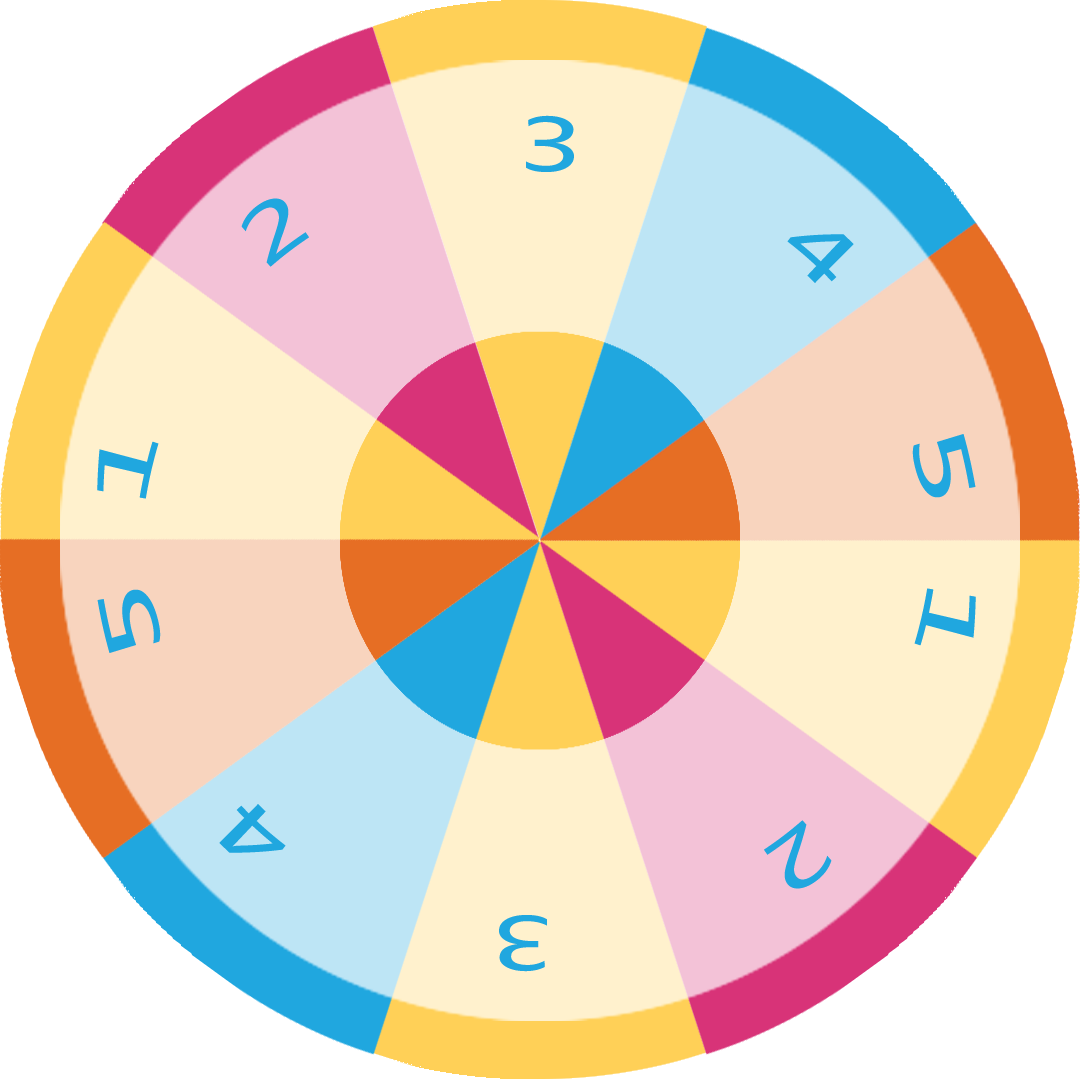
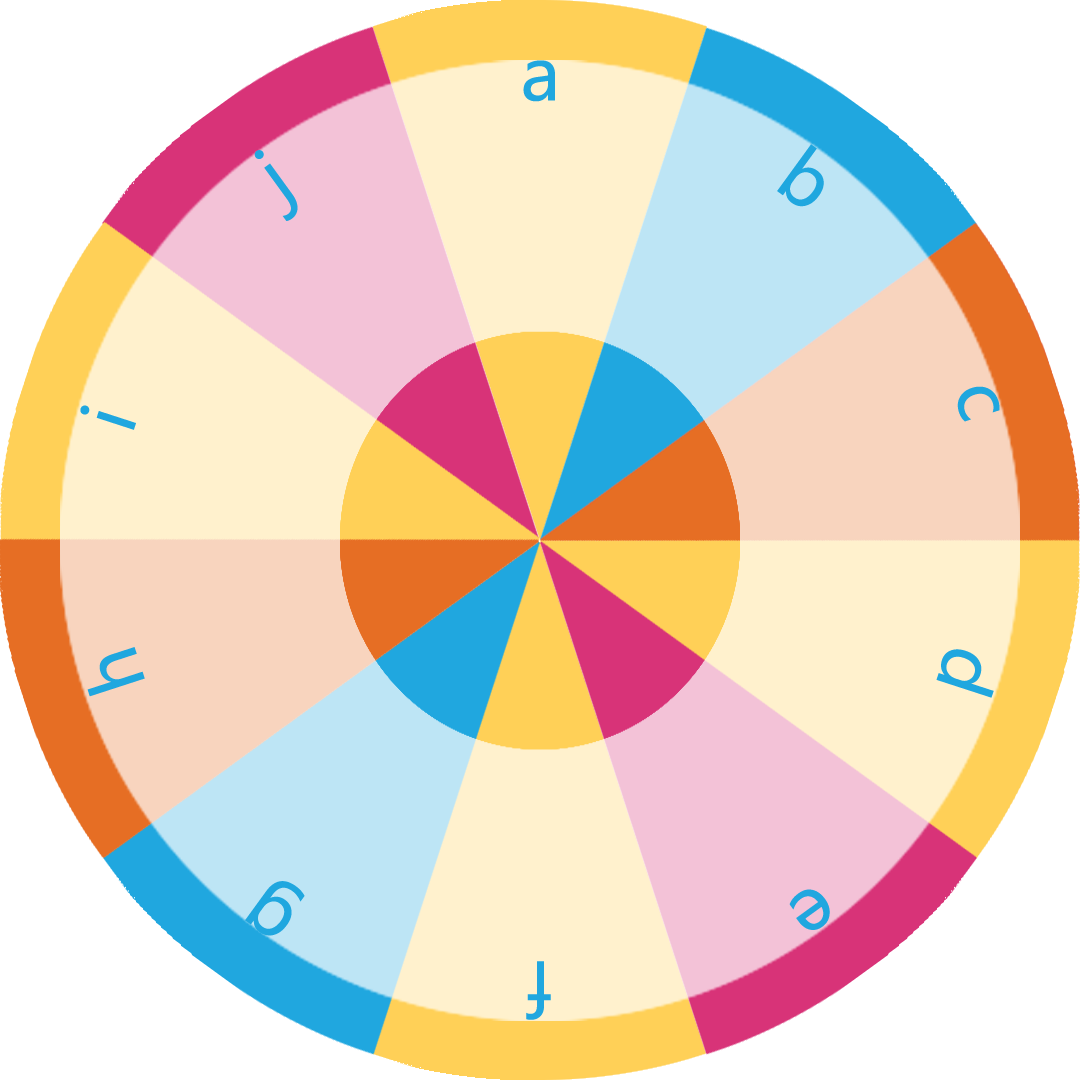
c1-006: 简化了转盘的旋转代码，旋转完毕后能够响应当前的sort， 修改了产品详情对话框模式

diff --git a/docs/Product.html b/docs/Product.html
@@ -19,22 +19,42 @@
 					<a href="#">
 						<img src="../Frontend/img/pro-demo.png">
 						<i class="pro-desc"></i>
+						<section class="Prodesc hide">
+							<h3>pro name 1</h3>
+							<p>product desc 1</p>
+						</section>
 					</a>
 					<a href="#">
 						<img src="../Frontend/img/pro-demo.png">
 						<i class="pro-desc"></i>
+						<section class="Prodesc hide">
+							<h3>pro name 2</h3>
+							<p>product desc 2</p>
+						</section>
 					</a>
 					<a href="#">
 						<img src="../Frontend/img/pro-demo.png">
 						<i class="pro-desc"></i>
+						<section class="Prodesc hide">
+							<h3>pro name 3</h3>
+							<p>product desc 3</p>
+						</section>
 					</a>
 					<a href="#">
 						<img src="../Frontend/img/pro-demo.png">
 						<i class="pro-desc"></i>
+						<section class="Prodesc hide">
+							<h3>pro name 4</h3>
+							<p>product desc 4</p>
+						</section>
 					</a>
 					<a href="#">
 						<img src="../Frontend/img/pro-demo.png">
 						<i class="pro-desc"></i>
+						<section class="Prodesc hide">
+							<h3>pro name 5</h3>
+							<p>product desc 5</p>
+						</section>
 					</a>
 				</div>
 				<!-- <nav>	
@@ -49,9 +69,6 @@
 				</nav>
 			</section>
 			
-			<section id="Prodesc" class="hide">
-				
-			</section>
 			<nav id="Sort-pie">
 				<img src="../Frontend/img/product-back.png" alt="" deg="0">
 				<div id="Sort-guide">
@@ -60,6 +77,20 @@
 				</div>
 				<div id="Pointer"></div>
 			</nav>
+			<div id="Sort-name" class="hide">a,b,c,d,e,f,g,h,i,j</div>
+			
+			<div id="descModal" class="modal hide fade" tabindex="-1" role="dialog" aria-hidden="true">
+				<div class="modal-header">
+					<button type="button" class="close" data-dismiss="modal" aria-hidden="true">×</button>
+					<h3></h3>
+				</div>
+				<div class="modal-body">
+					<p></p>
+				</div>
+				<div class="modal-footer">
+					<button class="btn" data-dismiss="modal" aria-hidden="true">Close</button>
+				</div>
+			</div>
 		</div>
 		<script src="../Frontend/js/jquery.min.js"></script>
 		<script src="../Frontend/js/bootstrap.min.js"></script>

diff --git a/Frontend/js/Product.js b/Frontend/js/Product.js
@@ -4,22 +4,25 @@
 	});
 
 	$("#Sort-guide").on("click","i",function(){
-		var d=180/5;
+		var d=360/10;
 		var r=($(this).attr("data")==="next") ? -1 : 1;
 
 		//rotate 对象
 		var $ro=$(this).parent().prev();
 		var deg=parseInt($ro.attr("deg"), 10);//当前角度值
 		var deg2=deg+d*r;//需达到的角度
-		// if(deg2>180) deg2=deg2-180;
 
 		$ro.attr("deg",deg2);
-		console.log($ro.attr("deg"))
-		var cosVal = Math.cos(deg2 * Math.PI / 180), sinVal = Math.sin(deg2 * Math.PI / 180);
-		var valTransform = 'matrix('+ cosVal.toFixed(6) +','+ sinVal.toFixed(6) +','+ (-1 * sinVal).toFixed(6) +','+ cosVal.toFixed(6) +',0,0)';
+		$ro.css("-webkitTransform", "rotate("+deg2+"deg)")
 
-		$ro[0].style["-webkitTransform"] = valTransform;
+		//get sort name
+		var sn=$("#Sort-name").html().split(",");
+		var i=0;
+		if(deg2>0) i=360-deg2%360;
+		if(deg2<0) i=deg2%360*-1;
+		console.log(sn[i/36]);
 	});
+
 	$("#Sort-pie").hover(function(){
 		$("#Sort-guide").fadeIn()
 	}, function(){
@@ -28,11 +31,10 @@
 
 	$(".pro-desc").click(function(e){
 		e.stopPropagation();
-		$("#Prodesc").fadeIn();
+		// $("#Prodesc").fadeIn();
+		$('#descModal').modal().find(".modal-header h3").html($(this).next().children("h3").html())
+		.end().find(".modal-body p").html($(this).next().children("p").html());
 		return false;
 	});
 
-	$("i.dg-prev, i.dg-next").mousedown(function(){
-		$("#Prodesc").fadeOut();
-	});
 }(jQuery))

diff --git a/Frontend/js/docs.js b/Frontend/js/docs.js
@@ -45,6 +45,30 @@
 		});
 	};
 
+	$.succ=function(t){
+		if($.isNumeric(t)) {return t-0+1;}
+		else{
+			t=t+"";
+			return  t.slice(0, t.length - 1) + 
+					String.fromCharCode(t.charCodeAt(t.length - 1) + 1);
+		}
+	};
+	
+	$.R=function(start, end){
+		var edge=arguments[2] || false;
+		var v=start;
+		var a=[];
+		var flag=function(value){
+			if (value<start) {return false;}
+			if (edge) {return value<end;}
+			return value<=end;
+		};
+		while(flag(v)){
+			a.push(v); v=this.succ(v);
+		}
+		return a;
+	};
+
 	var goHome=function(){
 		var loadtime=null, waittime=null;
 		var s=20;//waiting seconds
